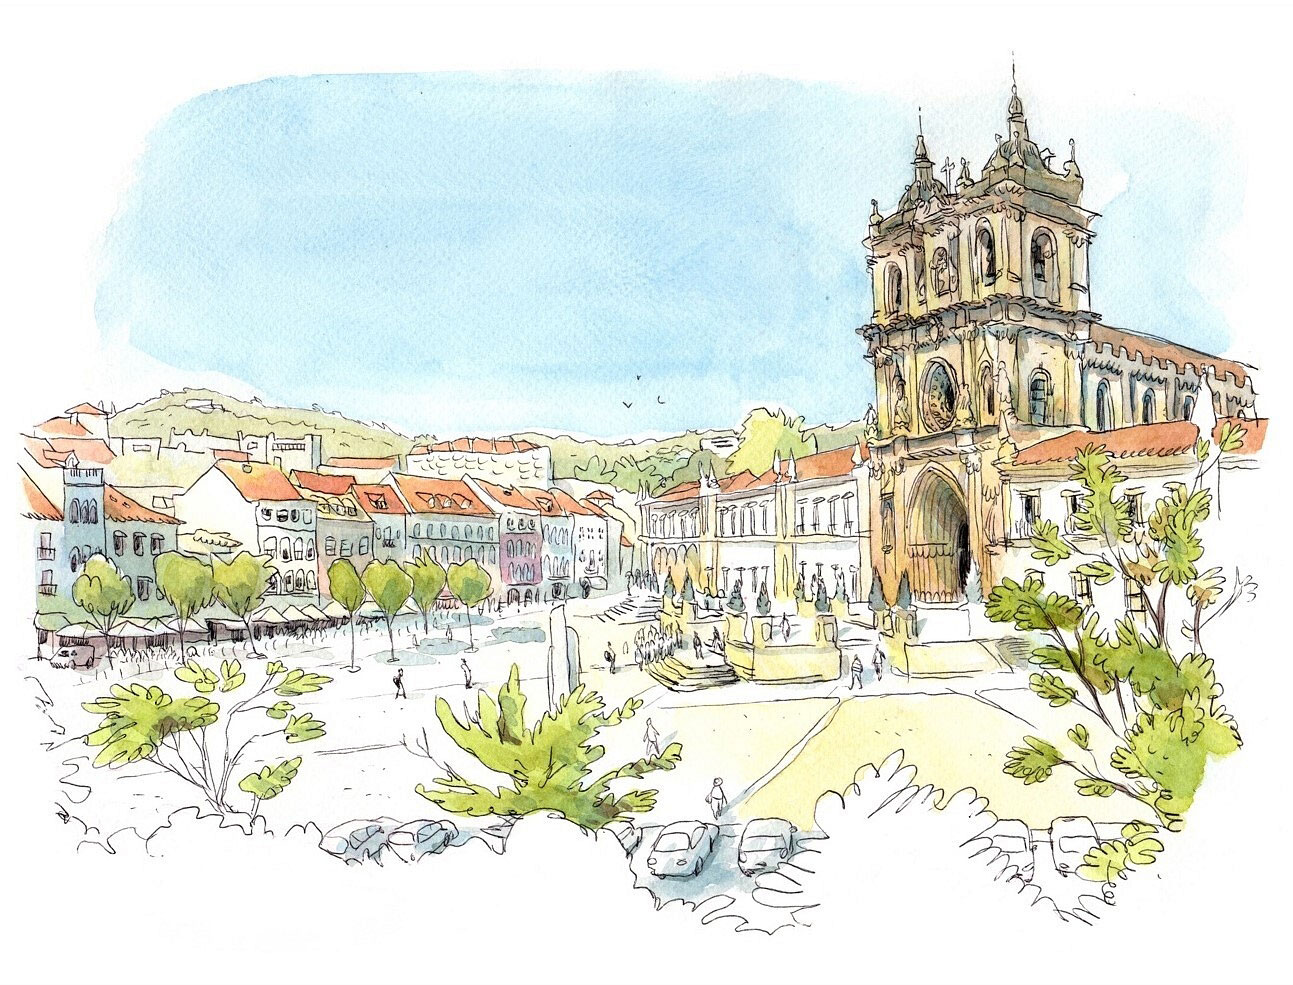
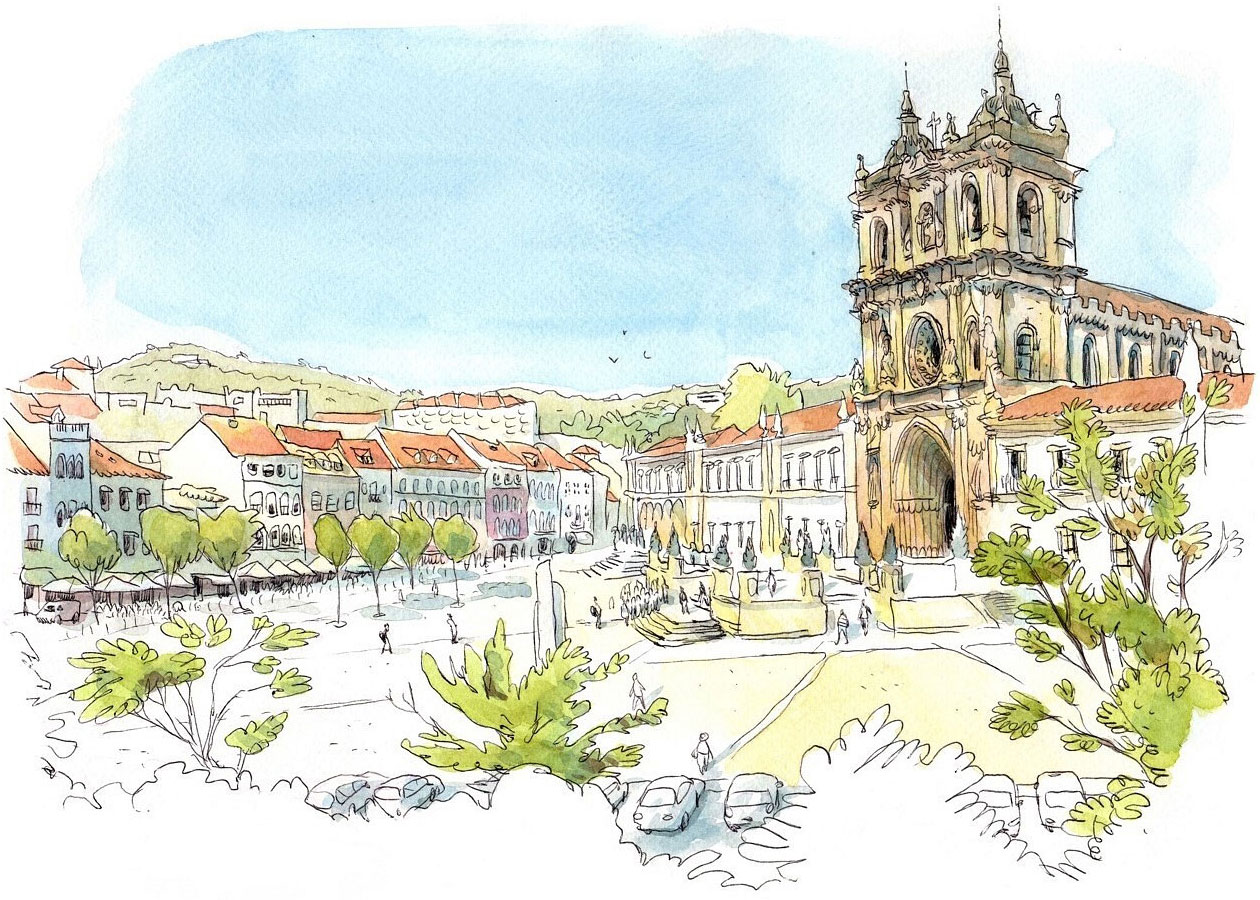
Remove whitespace around image

diff --git a/styles.css b/styles.css
@@ -56,7 +56,7 @@ header {
 
 .mosteiro {
   width: 100%;
-  aspect-ratio: 1293 / 985;
+  aspect-ratio: 1260 / 900;
 }
 
 .challet {
